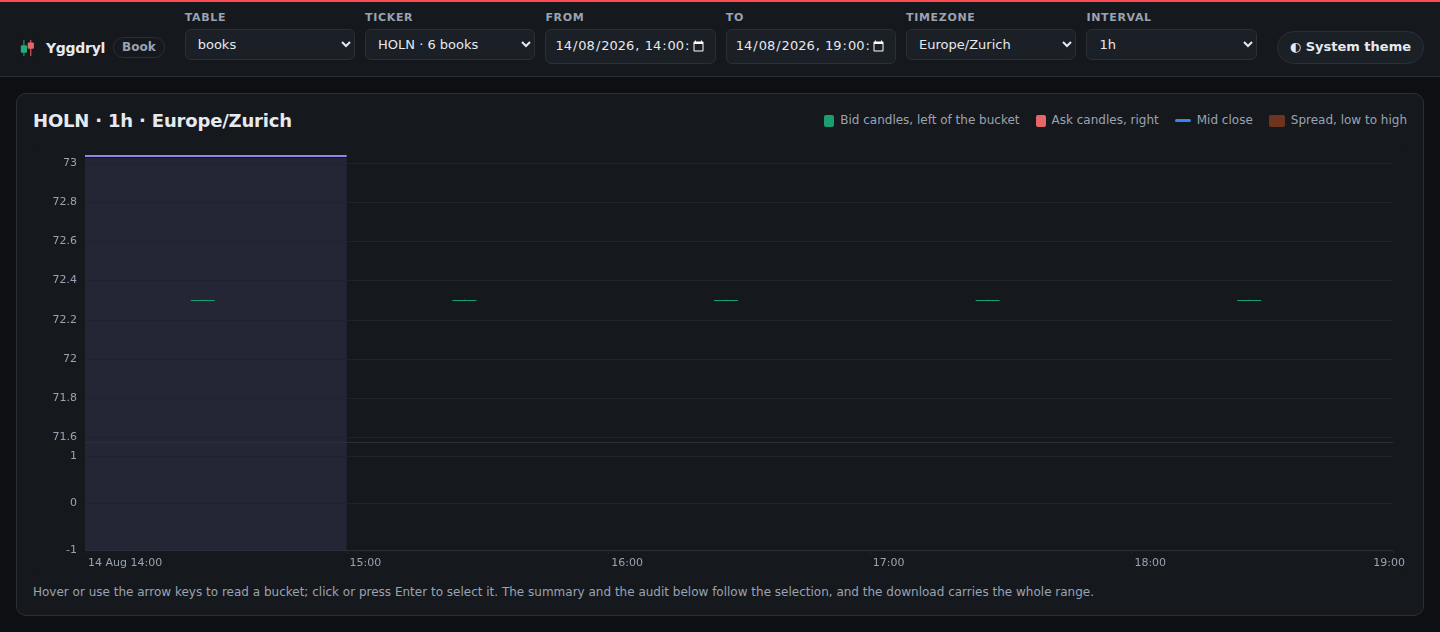
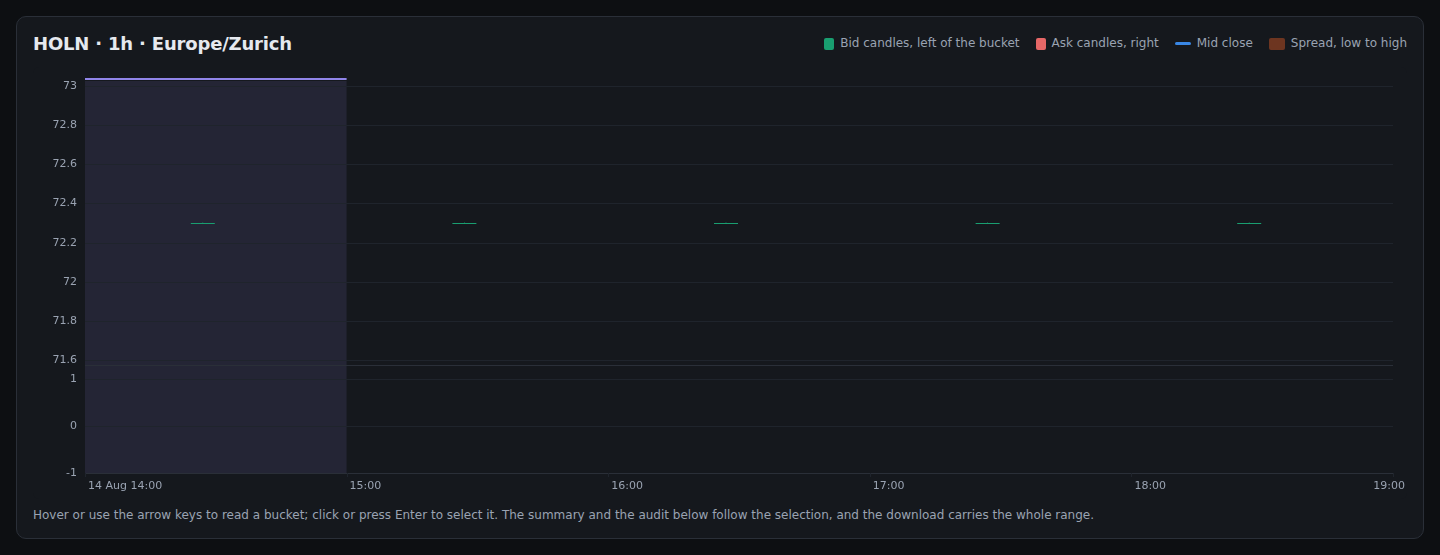
Clip the market server's brand out of its shots; state the fill as traded
The chart screenshots showed the served page's brand, which names the native
dependency in pixels the name test cannot read. The header is now its own
shot, clipped from 16 pixels left of the selectors, and the chart shot starts
below the header, so no image carries the brand and AGENTS.md drops the
"header included" admission. The naming exception is stated once, in
Ownership, pointing at SERVING_PAGES in python/tests/test_docs.py as the one
page list; Schemas and documentation links to it.

The audit prose said an order's fill of 300 at 72.28: the frame is a last
fill of 235 completing an order of 300, and the order after it is pending
new, not resting. The page now says so, and that an event's price and
quantity are what it states while lastpx and lastqty are what traded;
candle volume is described as the sum of the quantity executions state.

The example stages the export beside books.arrows and moves it onto it, so a
request never reads it half written, and the prose says the fold is rerun
into the same file. The page says the bare endpoint opens on 1605, which
draws no candle, and the Routes section lists /api/timezones and the 1m
interval and 5000-row limit defaults. docs/assets/README.md states
LANG=en_GB.UTF-8, without which Chromium renders the range inputs in the US
form; the point shots retaken under it are byte-identical to the committed
ones.

Claude-Session: https://claude.ai/code/session_017rks8FKwgZoNzxi1qGFVd2

diff --git a/python/tests/test_docs.py b/python/tests/test_docs.py
@@ -38,8 +38,7 @@ JSON_FENCE = re.compile(r"^```json\n(.*?)^```", re.MULTILINE | re.DOTALL)
 #: imports `rekep`, and the package re-exports what they need.
 NATIVE = re.compile(r"yggdryl", re.IGNORECASE)
 
-#: The pages whose bash fences name the native serving binary: the XMLA
-#: endpoint's and the market server's command lines.
+#: The serving pages: their bash fences alone name the native serving binary.
 SERVING_PAGES = (DOCS / "storages" / "xmla.md", DOCS / "storages" / "market-server.md")
 
 #: A command of a `rekep` console script, which the package does not install.
@@ -130,8 +129,8 @@ def fenced_lines(text: str, language: str) -> set[int]:
 
 
 def test_no_documentation_names_the_native_dependency() -> None:
-    """The one exception is the serving pages' command lines, which name the
-    serving binary inside their bash fences."""
+    """The one exception, AGENTS.md's: the bash fences of `SERVING_PAGES`,
+    each stating the serving command line."""
     named = []
     for path in PUBLISHED:
         text = path.read_text(encoding="utf-8", errors="replace")

diff --git a/docs/storages/market-server.md b/docs/storages/market-server.md
@@ -80,12 +80,15 @@ with storages:
         )
         folded = book_arrow_reader(codec, scanned, snapshot_millis=SNAPSHOT_MILLIS)
         books = market_window_reader(folded, window)
+        # Written beside the served file and moved onto it, never half written.
+        staged = root / "books.arrows.part"
         with (
-            pa.OSFile(str(root / "books.arrows"), "wb") as sink,
+            pa.OSFile(str(staged), "wb") as sink,
             pa.ipc.new_stream(sink, books.schema) as writer,
         ):
             for batch in books:
                 writer.write_batch(batch)
+        staged.replace(root / "books.arrows")
     finally:
         events.close()
 
@@ -127,32 +130,40 @@ yggdryl market serve books=<root>/books.arrows --bind 127.0.0.1:8080
 
 The first line the server prints is its endpoint, `http://127.0.0.1:8080/`,
 where the page is; `--bind 127.0.0.1:0` takes a free port and prints the one
-it took. The server reads the file at every request, so an export rerun after
-`parse_fix_messages_refined` lands a window shows on the next request, with
-no restart.
+it took. The page opens on the first ticker listed, 1605, over its whole span:
+its one order states no price, so its chart reads "No bid or ask in this
+range"; the view link below opens HOLN, where the prices are. The server reads
+the file at every request, so the fold rerun into the same
+`root / "books.arrows"` after `parse_fix_messages_refined` lands a window
+shows on the next request, with no restart; the example stages the export
+beside that file and moves it onto it, so no request reads it half written.
 
 ## What the page shows
 
 The page is the endpoint's `index.html`, and its view -- table, ticker, range,
 zone, interval and selected bucket -- is the URL's hash, so a view is a link.
-Both views below are HOLN over the afternoon, hourly on the Zurich clock, with
-the 14:00 bucket selected:
+The shots below are one view, HOLN over the afternoon, hourly on the Zurich
+clock, with the 14:00 bucket selected:
 
 ```text
 http://127.0.0.1:8080/index.html#table=books&ticker=HOLN&from=2026-08-14T12:00:00Z&to=2026-08-14T17:00:00Z&tz=Europe%2FZurich&interval=1h&at=2026-08-14T12:00:00Z
 ```
 
-![HOLN's hourly bid candles on the Zurich clock, the 14:00 bucket selected](../assets/market-server/chart-light.png#only-light)
-![HOLN's hourly bid candles on the Zurich clock, the 14:00 bucket selected](../assets/market-server/chart-dark.png#only-dark)
+![The header's selectors on HOLN, hourly, from 14:00 to 19:00 Zurich](../assets/market-server/header-light.png#only-light)
+![The header's selectors on HOLN, hourly, from 14:00 to 19:00 Zurich](../assets/market-server/header-dark.png#only-dark)
 
 The header selects the table, the ticker -- each labelled with its number of
 books -- the range as a wall clock in the zone, the zone and the candle
-interval. The chart draws each bucket's bid candle on its left and its ask
-candle on its right, the mid close as a line and the spread as a band
-beneath; hovering or the arrow keys read a bucket, and a click or Enter
-selects it. HOLN's bid from 14:46 on is one buy order resting at 72.3 for 50,
-and nothing was offered, so each hour is a flat bid candle with no mid or
-spread.
+interval.
+
+![HOLN's hourly bid candles on the Zurich clock, the 14:00 bucket selected](../assets/market-server/chart-light.png#only-light)
+![HOLN's hourly bid candles on the Zurich clock, the 14:00 bucket selected](../assets/market-server/chart-dark.png#only-dark)
+
+The chart draws each bucket's bid candle on its left and its ask candle on its
+right, the mid close as a line and the spread as a band beneath; hovering or
+the arrow keys read a bucket, and a click or Enter selects it. HOLN's bid from
+14:46 on is one new buy order of 50 at 72.3, still pending, and nothing was
+offered, so each hour is a flat bid candle with no mid or spread.
 
 ![HOLN's book before 15:00 and the bid and ask events of the 14:00 bucket](../assets/market-server/point-light.png#only-light)
 ![HOLN's book before 15:00 and the bid and ask events of the 14:00 bucket](../assets/market-server/point-dark.png#only-dark)
@@ -160,9 +171,12 @@ spread.
 Point is the last book before the selected bucket ends: its best bid and ask,
 spread, mid and imbalance, the counts of its alive entries, deltas and
 executions, and each side's top limits. Audit lists the bucket's bid and ask
-events -- here an order's fill of 300 at 72.28, as its delta and its
-execution, then the order resting at 72.3, as its alive entry and its delta
--- and downloads the whole range as CSV, gzip or zstd.
+events -- here a buy order of 300 completed by a last fill of 235 at 72.28,
+as its delta and its execution, then the new buy order of 50 at 72.3,
+pending, as its alive entry and its delta -- and downloads the whole range as
+CSV, gzip or zstd. An event's `price` and `quantity` are what it states, the
+order's 300 on both rows of the fill; what the fill traded is its `lastpx` and
+`lastqty`, which the download carries beside them.
 
 ## Routes
 
@@ -181,6 +195,15 @@ The tables served, each with the location it reads.
 curl -s http://127.0.0.1:8080/api/tables
 ```
 
+### /api/timezones
+
+The zones `tz` reads, by name: `UTC`, then every zone the server has rules
+for, which the page offers.
+
+```bash
+curl -s http://127.0.0.1:8080/api/timezones
+```
+
 ### /api/tickers
 
 Every ticker a table holds, with its number of books and the whole seconds
@@ -192,9 +215,10 @@ curl -s 'http://127.0.0.1:8080/api/tickers?table=books'
 
 ### /api/candles
 
-A ticker's books in `[from, to)`, folded into candles of `interval` aligned
-to `tz`: the bid, the ask, the mid and the spread, each an open, high, low and
-close, beside each bucket's books, executions and volume.
+A ticker's books in `[from, to)`, folded into candles of `interval` -- `1m`
+unless stated -- aligned to `tz`: the bid, the ask, the mid and the spread,
+each an open, high, low and close, beside each bucket's books, executions and
+volume, the sum of the `quantity` its executions state.
 
 ```bash
 curl -s 'http://127.0.0.1:8080/api/candles?table=books&ticker=HOLN&from=2026-08-14T14:00:00&to=2026-08-14T19:00:00&tz=Europe/Zurich&interval=1h'
@@ -212,8 +236,9 @@ curl -s 'http://127.0.0.1:8080/api/book?table=books&ticker=HOLN&at=2026-08-14T15
 ### /api/events
 
 One row per alive entry, delta and execution of every book in `[from, to)`,
-at most `limit` of them, `truncated` saying whether more were held back;
-`side=bid` or `side=ask` keeps one side.
+at most `limit` of them -- 5000 unless stated, and never more --
+`truncated` saying whether more were held back; `side=bid` or `side=ask`
+keeps one side.
 
 ```bash
 curl -s 'http://127.0.0.1:8080/api/events?table=books&ticker=HOLN&from=2026-08-14T14:00:00&to=2026-08-14T15:00:00&tz=Europe/Zurich&side=bid'

diff --git a/AGENTS.md b/AGENTS.md
@@ -18,9 +18,9 @@ behavior.
   `python/pyproject.toml` and locked in `python/uv.lock`. Public applications
   and documentation import only `rekep`, and documentation never names the
   dependency: a capability a reader needs is re-exported through `rekep`.
-  The one exception is the serving pages' command lines -- the XMLA
-  endpoint's and the market server's -- which name the serving binary in
-  bash fences.
+  The one exception is the command lines of the serving pages -- those
+  `SERVING_PAGES` in `python/tests/test_docs.py` lists -- which name the
+  serving binary in bash fences.
 - Yggdryl owns `Field`, scalar compilation, resource binding, filesystems,
   streams, codecs, decompression, text media and the text row's event
   columns, FIX registries and their process default, FIX batch parsing, the
@@ -475,13 +475,13 @@ completed operation, DEBUG for scans and files -- and the caller configures
 - `docs/assets/fix-*.json` is `tools/fix_registry_dump.py`'s projection of the
   process registry, regenerated by hand when the registry changes.
 - Documentation -- `docs/`, `README.md`, `schemas/`, the skill -- names
-  capabilities through `rekep` and never names the native dependency. The one
-  exception is the serving pages' command lines -- the XMLA endpoint's and
-  the market server's -- which name the serving binary in bash fences.
+  capabilities through `rekep` and never names the native dependency, save
+  the one exception [Ownership](#ownership) states.
 - `docs/assets/market-server/` holds the market server's screenshots: the
-  page it serves, header included, over the feed the market server page
-  exports. `docs/assets/README.md` says how they are taken; retake them when
-  that page's view or the served page changes.
+  page it serves over the feed the market server page exports, clipped clear
+  of the header's brand, which names the dependency in pixels no test reads.
+  `docs/assets/README.md` says how they are taken; retake them when that
+  page's view or the served page changes.
 
 ## Tests and benchmarks
 

diff --git a/docs/assets/README.md b/docs/assets/README.md
@@ -13,12 +13,16 @@ bundled dictionary, not hand-edited sources. Rebuild them with
 [the registry assets page](../fix/assets.md#regenerate-the-published-assets).
 
 `market-server/` holds the [market server page](../storages/market-server.md)'s
-screenshots, `chart-*` and `point-*` in each colour scheme: the page the server
-serves over the feed that page exports, served under the name `books`, opened
-at the view link that page states. They are taken with Playwright's Chromium,
-launched with `--lang=en-GB`, in a 1440x900 viewport under locale `en-GB`,
-timezone `Europe/Zurich` and `colorScheme` `light` or `dark`, nothing stored,
-once the network is idle and `#bid-events` holds its table: `chart-*` clips
-the page from its top to 16 pixels below `.chart-panel`, `point-*` from 16
-pixels above `.summary-panel` to 16 pixels below `.audit`. Each is then
-recompressed losslessly (oxipng, level 6, every ancillary chunk stripped).
+screenshots, `header-*`, `chart-*` and `point-*` in each colour scheme: the
+page the server serves over the feed that page exports, served under the name
+`books`, opened at the view link that page states. They are taken with
+Playwright's Chromium, launched with `--lang=en-GB` from an environment
+stating `LANG=en_GB.UTF-8` -- without it the range inputs render in the US
+form -- in a 1440x900 viewport under locale `en-GB`, timezone `Europe/Zurich`
+and `colorScheme` `light` or `dark`, nothing stored, once the network is idle
+and `#bid-events` holds its table. `header-*` clips the whole header from 16
+pixels left of `.selectors` to the right edge, leaving out the brand;
+`chart-*` the full width from 16 pixels above `.chart-panel` to 16 below;
+`point-*` from 16 pixels above `.summary-panel` to 16 below `.audit`. Each is
+then recompressed losslessly (oxipng, level 6, every ancillary chunk
+stripped).
